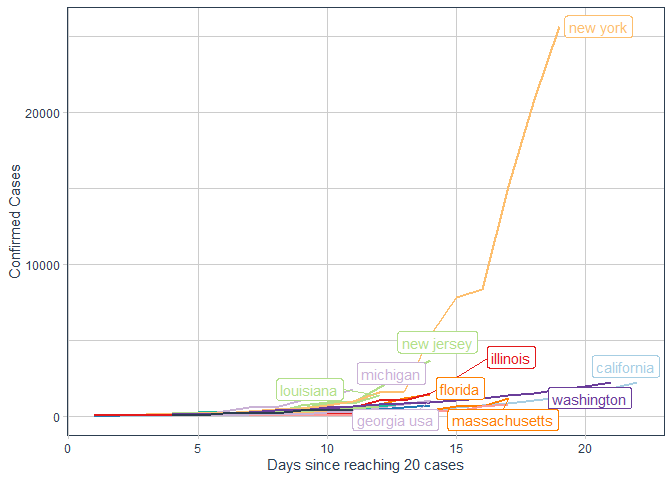
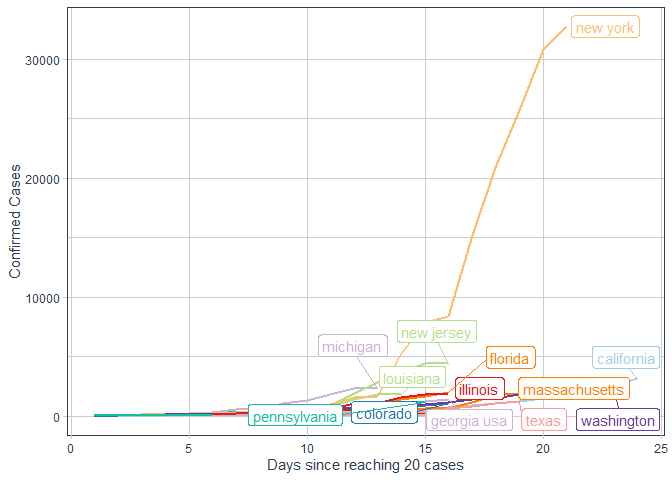
update 2020-03-26

diff --git a/README.md b/README.md
@@ -30,7 +30,7 @@ cases_data <- suppressMessages(read_csv(latest_file))
 message("Data from ", min(cases_data$datetime)," to ",max(cases_data$datetime))
 ```
 
-    ## Data from 2020-01-21 to 2020-03-24
+    ## Data from 2020-01-21 to 2020-03-26
 
 ``` r
 max_date <- 
@@ -54,13 +54,13 @@ ny_cases <-
 message("Number of confirmed NY cases as of ",max_date,": ", ny_cases$Confirmed,"\n")
 ```
 
-    ## Number of confirmed NY cases as of 2020-03-24: 25665
+    ## Number of confirmed NY cases as of 2020-03-26: 32741
 
 ``` r
 message("Number of active NY cases as of ",max_date,": ",ny_cases$Active)
 ```
 
-    ## Number of active NY cases as of 2020-03-24: 25455
+    ## Number of active NY cases as of 2020-03-26: 32407
 
 # Process case data
 
@@ -77,30 +77,30 @@ source("00 - Recording NYC Cases.R")
     ## # A tibble: 24 x 3
     ##    Var                value percent
     ##    <chr>              <chr>   <dbl>
-    ##  1 Total              15597      NA
-    ##  2 Median Age (Range) 46          0
+    ##  1 Total              21873      NA
+    ##  2 Median Age (Range) 47          0
     ##  3 Age Group          <NA>       NA
-    ##  4 -  0 to 17         384         2
-    ##  5 -  18 to 44        7094       46
-    ##  6 -  45 to 64        5194       33
-    ##  7 -  65 to 74        1689       11
-    ##  8 -  75 and over     1227        8
-    ##  9 -  Unknown         9          NA
+    ##  4 -  0 to 17         470         2
+    ##  5 -  18 to 44        9618       44
+    ##  6 -  45 to 64        7445       34
+    ##  7 -  65 to 74        2471       11
+    ##  8 -  75 and over     1826        8
+    ##  9 -  Unknown         43         NA
     ## 10 Age 50 and over    <NA>       NA
-    ## 11 -  Yes             6787       44
-    ## 12 -  No              8801       56
+    ## 11 -  Yes             9863       45
+    ## 12 -  No              11967      55
     ## 13 Sex                <NA>       NA
-    ## 14 -  Female          6736       43
-    ## 15 -  Male            8838       57
-    ## 16 -  Unknown         23         NA
+    ## 14 -  Female          9557       44
+    ## 15 -  Male            12278      56
+    ## 16 -  Unknown         38         NA
     ## 17 Borough            <NA>       NA
-    ## 18 -  Bronx           2505       16
-    ## 19 -  Brooklyn        4407       28
-    ## 20 -  Manhattan       3013       19
-    ## 21 -  Queens          4667       30
-    ## 22 -  Staten Island   999         6
-    ## 23 -  Unknown         6          NA
-    ## 24 Deaths             192        NA
+    ## 18 -  Bronx           3924       18
+    ## 19 -  Brooklyn        5705       26
+    ## 20 -  Manhattan       3907       18
+    ## 21 -  Queens          7026       32
+    ## 22 -  Staten Island   1276        6
+    ## 23 -  Unknown         35         NA
+    ## 24 Deaths             281        NA
 
 ``` r
 processed %>% 
@@ -147,6 +147,29 @@ processed %>%
 
 ``` r
 processed %>% 
+  filter(area%in%c("US","italy", "hubei")) %>%  
+  bind_rows(NYC_reports %>% mutate(Country = "NYC")) %>% 
+  group_by(area) %>% 
+  filter(Deaths>10) %>% 
+  mutate(days_since_reported = 1:n()) %>% 
+  mutate(Deaths = log(Deaths)) %>%
+  ggplot()+
+  aes(x = days_since_reported, y = Deaths, group = area, color = area)+
+  geom_line(size = 2, alpha = 0.6) + 
+  theme_tq()+
+  scale_color_tq()+
+  #scale_y_log10()+
+  theme(legend.position = "bottom")+
+  labs(title = "Covid-19 deaths NYC, Italy, Wuhan"
+       , y = "Deceased, log scale"
+       , x = "Days since reaching 10 reported deaths"
+       , caption = "Source: http://hgis.uw.edu/virus/assets/virus.csv\n NYC data collected by hand")
+```
+
+![](README_files/figure-gfm/unnamed-chunk-7-1.png)<!-- -->
+
+``` r
+processed %>% 
   filter(Country%in%c("China","italy"), area!="hubei") %>%  
   bind_rows(NYC_reports %>% mutate(Country = "NYC")) %>% 
   arrange(desc(Country)) %>% 
@@ -166,7 +189,7 @@ processed %>%
        , caption = "Source: http://hgis.uw.edu/virus/assets/virus.csv\n NYC data collected by hand")
 ```
 
-![](README_files/figure-gfm/unnamed-chunk-7-1.png)<!-- -->
+![](README_files/figure-gfm/unnamed-chunk-8-1.png)<!-- -->
 
 ``` r
 library(DT)
@@ -174,7 +197,7 @@ NYC_reports %>%
   datatable(options = list(paging = F, searching = F))
 ```
 
-![](README_files/figure-gfm/unnamed-chunk-8-1.png)<!-- -->
+![](README_files/figure-gfm/unnamed-chunk-9-1.png)<!-- -->
 
 # US States
 
@@ -253,7 +276,7 @@ processed %>%
   geom_line()
 ```
 
-![](README_files/figure-gfm/unnamed-chunk-9-1.png)<!-- -->
+![](README_files/figure-gfm/unnamed-chunk-10-1.png)<!-- -->
 
 # US
 
@@ -271,7 +294,7 @@ processed %>%
 
 ``` r
 processed %>% 
-  filter(area%in% c("us","canada","france","australia"
+  filter(area%in% c("us","italy","canada","france","australia"
                     ,"germany","israel","uk","greece","spain")) %>% 
   group_by(area) %>% 
   filter(Confirmed>20) %>% 
